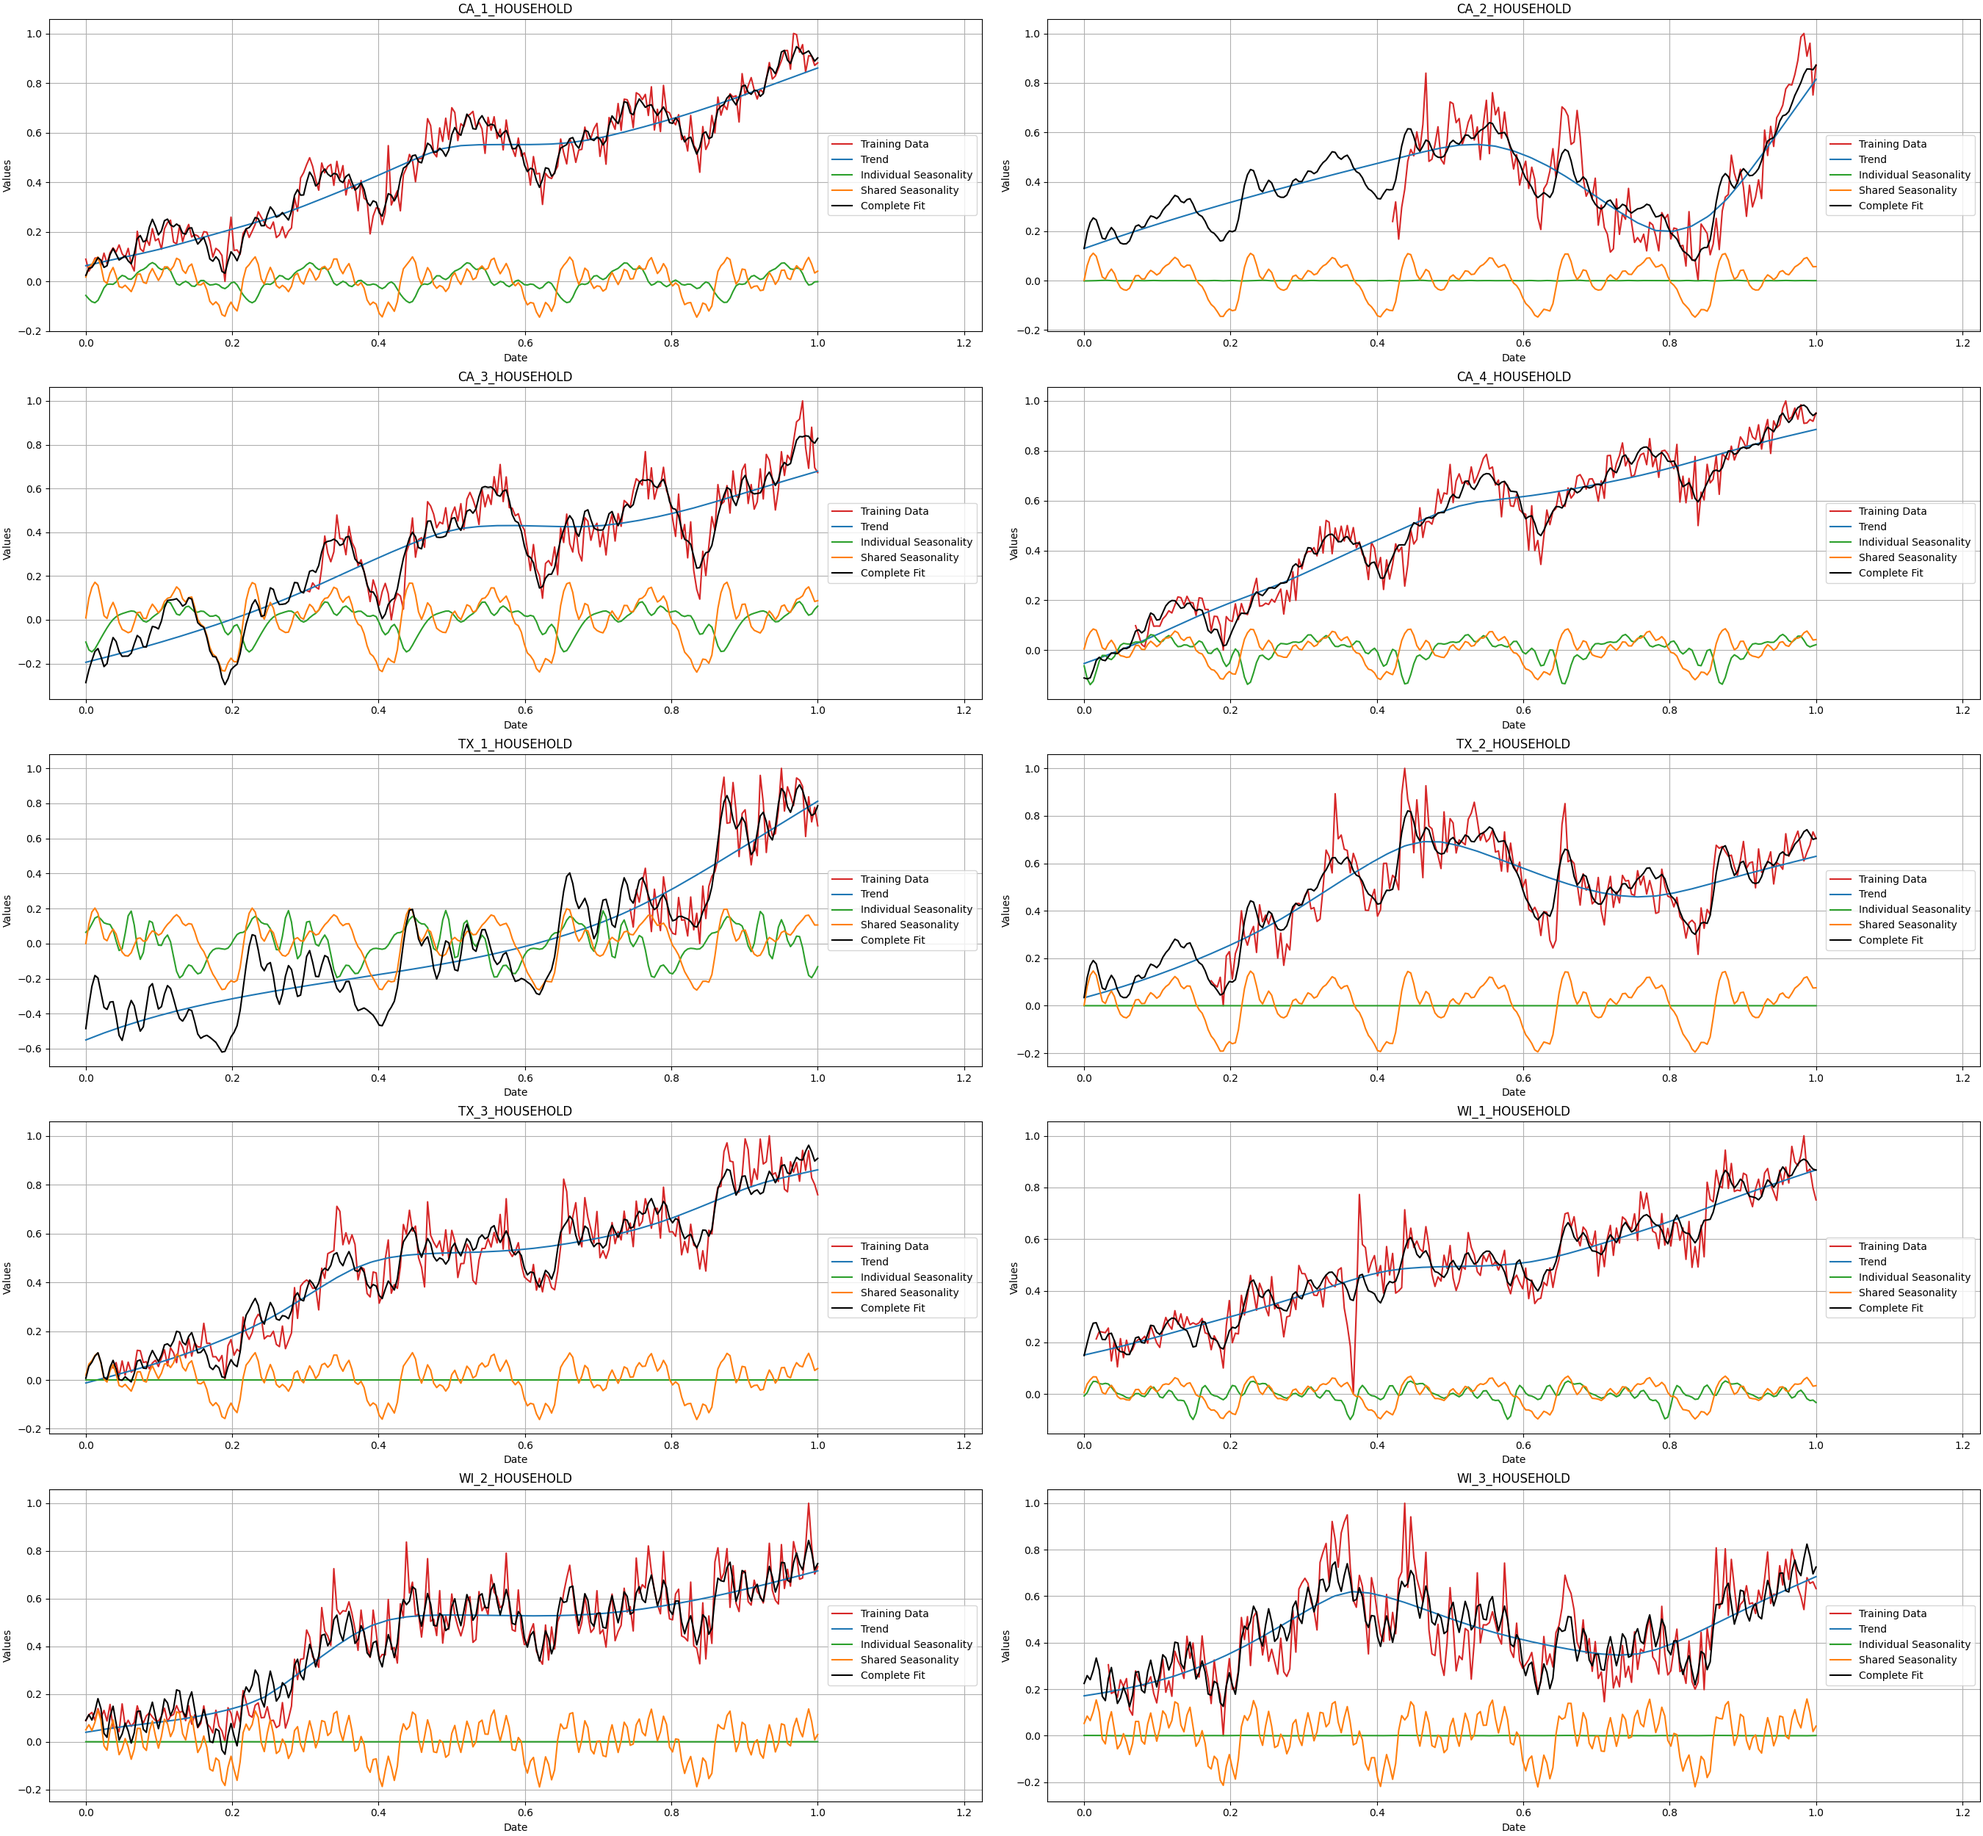
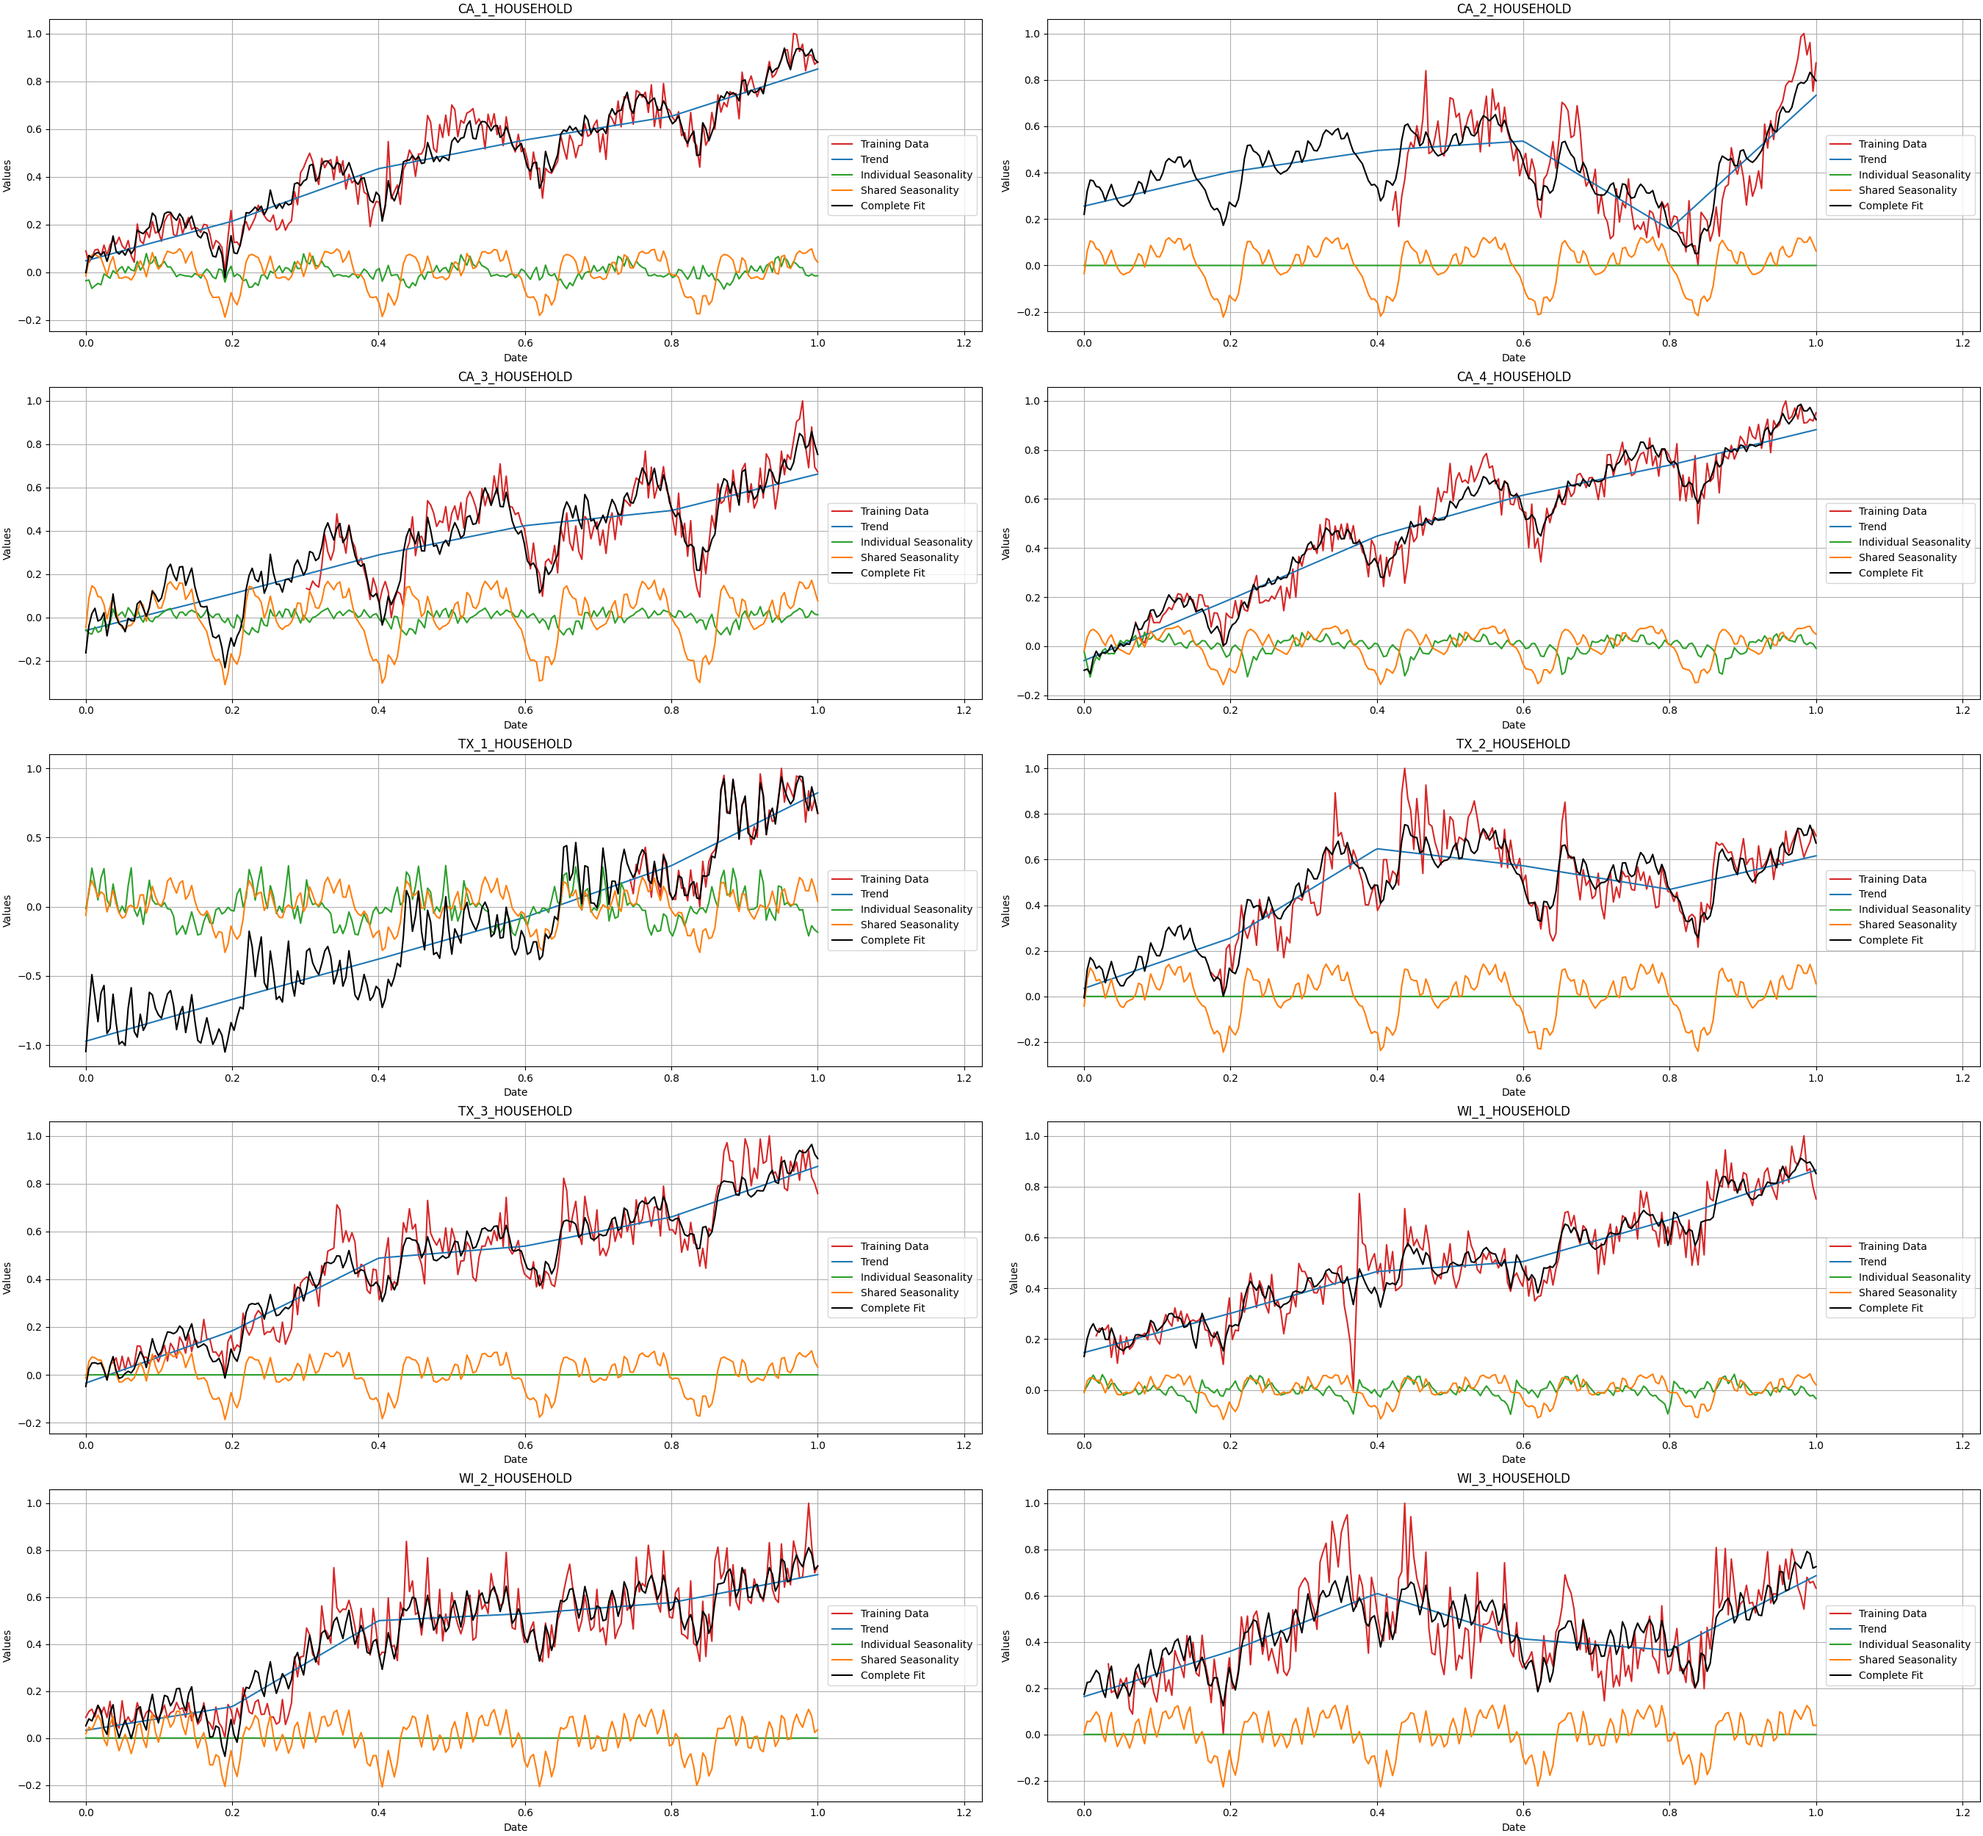
removed unused model_config elements and added scale priors

diff --git a/src/sorcerer/model_components.py b/src/sorcerer/model_components.py
@@ -25,7 +25,7 @@ def trend_and_fourier_terms(
         model.add_coords({"number_of_time_series": range(number_of_time_series)})
         model.add_coords({"number_of_observations": range(number_of_observations)})
         x = pm.Data('input_training', X)
-        
+                
         s = pt.tensor.linspace(0, 1, model_config["number_of_individual_trend_changepoints"] + 2)[1:-1] # max(x) for input is by definition 1
         A = (x[:, None] > s) * 1.
         k = pm.Normal(
@@ -50,9 +50,7 @@ def trend_and_fourier_terms(
             shape = number_of_time_series
             )
         trend_term = (k + pm.math.dot(A, delta.T)) * x[:, None] + m + pm.math.dot(A, (-s * delta).T)
-        
-        
-        
+
         seasonality_individual = pm.math.zeros((number_of_observations, number_of_time_series))
         for term in model_config["individual_fourier_terms"]:
             number_of_fourier_components = term['number_of_fourier_components']
@@ -76,8 +74,8 @@ def trend_and_fourier_terms(
         
         single_scale = pm.Normal(
             name = 'single_scale',
-            mu = 0,
-            sigma = 1,
+            mu = model_config["single_scale_mu_prior"],
+            sigma = model_config["single_scale_sigma_prior"],
             shape = number_of_time_series
             )
         seasonality_individual = seasonality_individual*single_scale
@@ -112,8 +110,8 @@ def trend_and_fourier_terms(
             
             shared_scale = pm.Normal(
                 name = 'shared_scale',
-                mu = 1,
-                sigma = 1,
+                mu = model_config["shared_scale_mu_prior"],
+                sigma = model_config["shared_scale_sigma_prior"],
                 shape = (
                     len(model_config["shared_fourier_terms"]),
                     number_of_time_series

diff --git a/examples/main.py b/examples/main.py
@@ -20,7 +20,7 @@ for col, n in zip(time_series_column_group, nan_count):
     df.loc[:n-1, col] = np.nan
 #%%
 model_name = "SorcererModel"
-model_version = "v0.4.1"
+model_version = "v0.4.2"
 forecast_horizon = 30
 
 training_data = df.iloc[:-forecast_horizon]
@@ -40,7 +40,7 @@ sampler_config = {
 number_of_weeks_in_a_year = 52.1429
 
 model_config = {
-    "number_of_individual_trend_changepoints": 40,
+    "number_of_individual_trend_changepoints": int(len(training_data)/number_of_weeks_in_a_year),
     "delta_mu_prior": 0,
     "delta_b_prior": 0.1,
     "m_sigma_prior": 0.2,
@@ -49,14 +49,16 @@ model_config = {
     "fourier_sigma_prior" : 1,
     "precision_target_distribution_prior_alpha": 50,
     "precision_target_distribution_prior_beta": 0.1,
-    "prior_probability_shared_seasonality_alpha": 1,
-    "prior_probability_shared_seasonality_beta": 1,
+    "single_scale_mu_prior": 0,
+    "single_scale_sigma_prior": 1,
+    "shared_scale_mu_prior": 1,
+    "shared_scale_sigma_prior": 1,
     "individual_fourier_terms": [
-        {'seasonality_period_baseline': number_of_weeks_in_a_year,'number_of_fourier_components': 10}
+        {'seasonality_period_baseline': number_of_weeks_in_a_year,'number_of_fourier_components': 20}
     ],
     "shared_fourier_terms": [
-        {'seasonality_period_baseline': number_of_weeks_in_a_year,'number_of_fourier_components': 8},
-        {'seasonality_period_baseline': number_of_weeks_in_a_year/4,'number_of_fourier_components': 2},
+        {'seasonality_period_baseline': number_of_weeks_in_a_year,'number_of_fourier_components': 10},
+        {'seasonality_period_baseline': number_of_weeks_in_a_year/4,'number_of_fourier_components': 5},
         {'seasonality_period_baseline': number_of_weeks_in_a_year/12,'number_of_fourier_components': 1},
     ]
 }

diff --git a/README.md b/README.md
@@ -67,7 +67,7 @@ sampler_config = {
 number_of_weeks_in_a_year = 52.1429
 
 model_config = {
-    "number_of_individual_trend_changepoints": 40,
+    "number_of_individual_trend_changepoints": int(len(training_data)/number_of_weeks_in_a_year),
     "delta_mu_prior": 0,
     "delta_b_prior": 0.1,
     "m_sigma_prior": 0.2,
@@ -76,14 +76,16 @@ model_config = {
     "fourier_sigma_prior" : 1,
     "precision_target_distribution_prior_alpha": 50,
     "precision_target_distribution_prior_beta": 0.1,
-    "prior_probability_shared_seasonality_alpha": 1,
-    "prior_probability_shared_seasonality_beta": 1,
+    "single_scale_mu_prior": 0,
+    "single_scale_sigma_prior": 1,
+    "shared_scale_mu_prior": 1,
+    "shared_scale_sigma_prior": 1,
     "individual_fourier_terms": [
-        {'seasonality_period_baseline': number_of_weeks_in_a_year,'number_of_fourier_components': 10}
+        {'seasonality_period_baseline': number_of_weeks_in_a_year,'number_of_fourier_components': 20}
     ],
     "shared_fourier_terms": [
-        {'seasonality_period_baseline': number_of_weeks_in_a_year,'number_of_fourier_components': 8},
-        {'seasonality_period_baseline': number_of_weeks_in_a_year/4,'number_of_fourier_components': 2},
+        {'seasonality_period_baseline': number_of_weeks_in_a_year,'number_of_fourier_components': 10},
+        {'seasonality_period_baseline': number_of_weeks_in_a_year/4,'number_of_fourier_components': 5},
         {'seasonality_period_baseline': number_of_weeks_in_a_year/12,'number_of_fourier_components': 1},
     ]
 }
@@ -107,7 +109,8 @@ sorcerer.fit(
 ```python
 ImputationWarning: Data in target_distribution contains missing values and will be automatically imputed from the sampling distribution.
   warnings.warn(impute_message, ImputationWarning)
-sample: 100%|██████████████████████████| 2500/2500 [09:46<00:00,  4.26it/s, 511 steps of size 7.80e-03. acc. prob=0.88]
+sample: 100%|██████████████████████████| 2500/2500 [03:46<00:00, 11.05it/s, 127 steps of size 2.75e-02. acc. prob=0.83]
+There were 17 divergences after tuning. Increase `target_accept` or reparameterize.
 Only one chain was sampled, this makes it impossible to run some convergence checks
 ```
 
